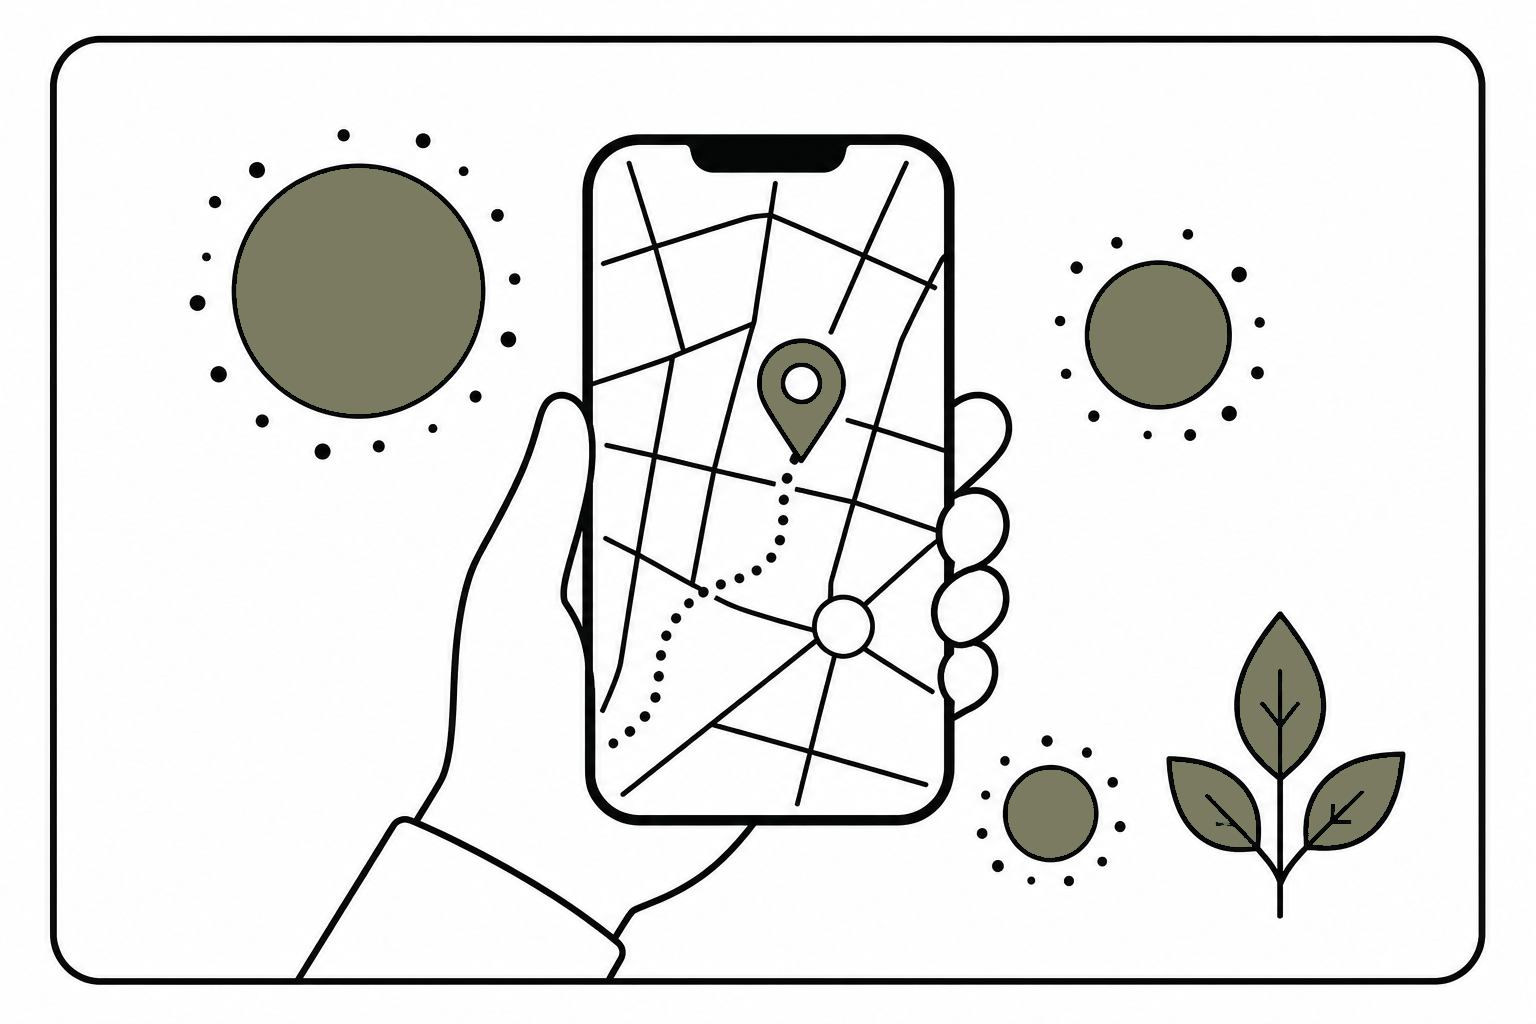
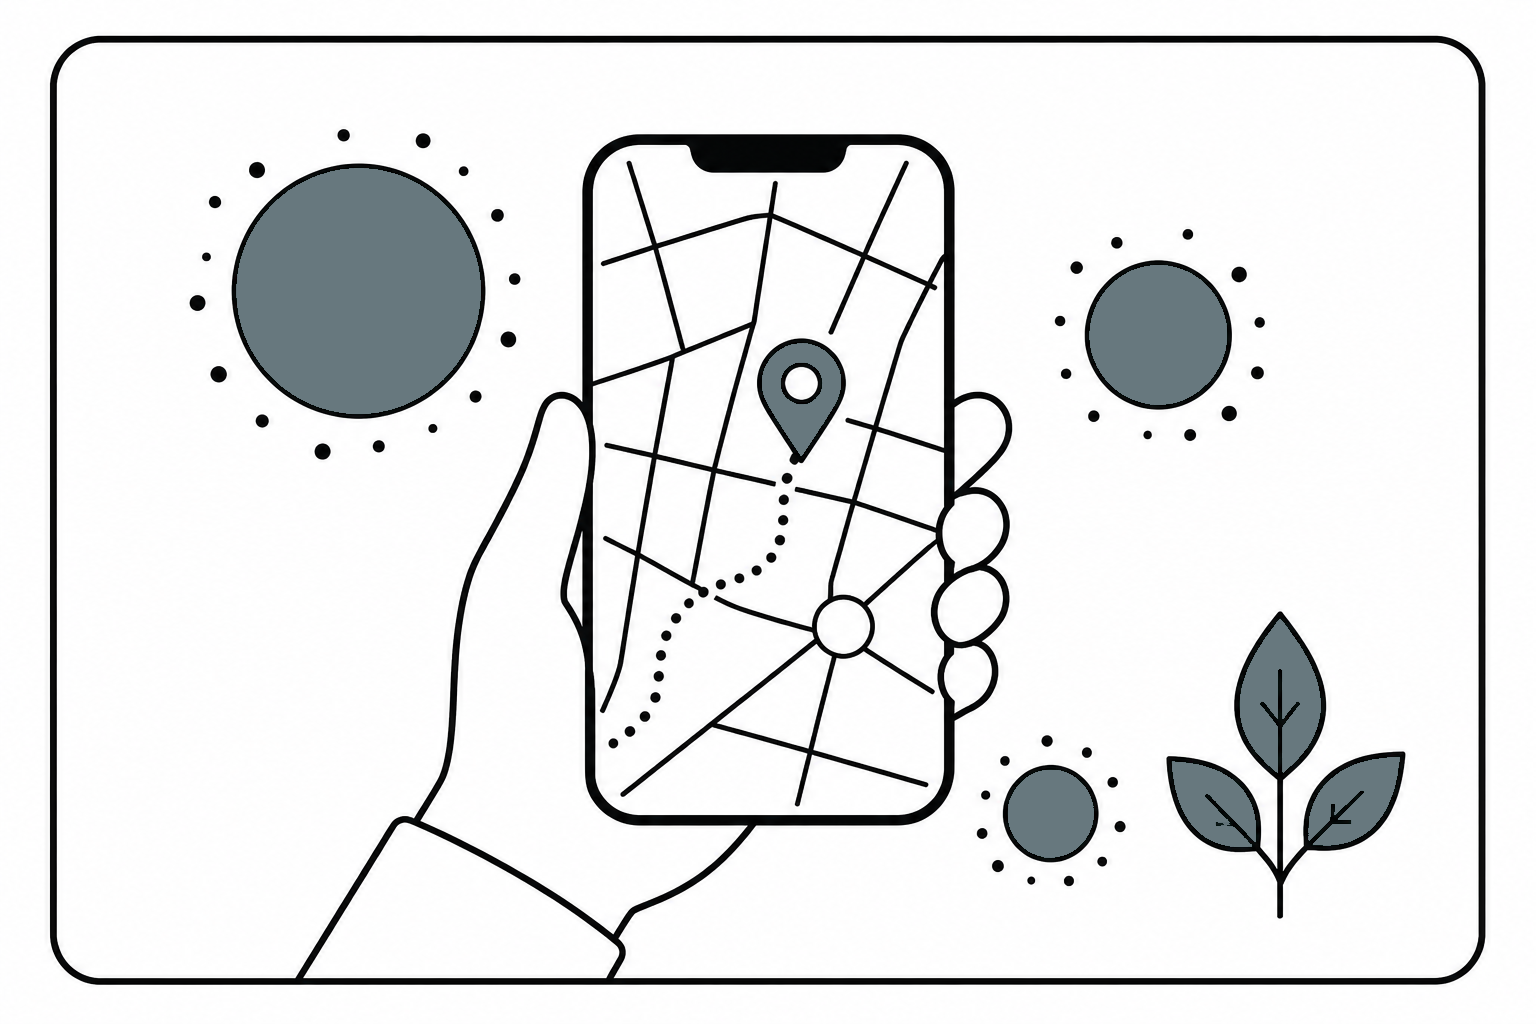
feat(mobile): switch Earth Wellness primary to Slate (2B)
CTA/FAB/tabs use deepened Slate #5F7076; Sage/Moss stay soft surfaces.
Update tokens, contrast tests, brand canon, and onboarding art.

diff --git a/apps/mobile/src/constants/claro-gradient.test.ts b/apps/mobile/src/constants/claro-gradient.test.ts
@@ -19,30 +19,29 @@ const LEGACY_MEDICAL_BLUE = [
 
 const LEGACY_NORDIC_SKY = ['#4F8FB8', '#D9EAF5', '#A8C9DC', '#3A6F92', '#7EB7D6'] as const;
 
-describe('Earth Wellness tokens (UX/UI v2 · A + photo-3)', () => {
+describe('Earth Wellness tokens (UX/UI v2 · A + photo-3 · 2B Slate)', () => {
   it('product accent family has no calm.* keys', () => {
     const lightKeys = Object.keys(LIGHT_CLARO_TOKENS);
     const darkKeys = Object.keys(DARK_CLARO_TOKENS);
     expect(lightKeys.some((k) => k.startsWith('calm'))).toBe(false);
     expect(darkKeys.some((k) => k.startsWith('calm'))).toBe(false);
-    expect(LIGHT_CLARO_TOKENS.accent).toBe('#6E6E58');
+    expect(LIGHT_CLARO_TOKENS.accent).toBe('#5F7076');
     expect(LIGHT_CLARO_TOKENS.accentLight).toBe('#E4E5D4');
     expect(LIGHT_CLARO_TOKENS.accentMid).toBe('#A3A380');
   });
 
-  it('maps Moss primary, Sage soft wash, Slate info', () => {
+  it('maps Slate primary, Sage soft wash, Moss tip text', () => {
     expect(LIGHT_CLARO_TOKENS.tipBg).toBe(LIGHT_CLARO_TOKENS.accentLight);
     expect(LIGHT_CLARO_TOKENS.tipBorder).toBe(LIGHT_CLARO_TOKENS.accentMid);
     expect(LIGHT_CLARO_TOKENS.tipText).toBe('#5F5F4A');
-    expect(LIGHT_CLARO_TOKENS.info).toBe('#829399');
+    expect(LIGHT_CLARO_TOKENS.info).toBe(LIGHT_CLARO_TOKENS.accent);
     expect(LIGHT_CLARO_TOKENS.infoLight).toBe('#E0E5E7');
-    expect(LIGHT_CLARO_TOKENS.info).not.toBe(LIGHT_CLARO_TOKENS.accent);
   });
 
-  it('dark tip stays in Moss/Sage family; info stays Slate', () => {
+  it('dark info aliases Slate accent; tip soft stays Moss/Sage surface', () => {
+    expect(DARK_CLARO_TOKENS.info).toBe(DARK_CLARO_TOKENS.accent);
     expect(DARK_CLARO_TOKENS.tipBg).toBe(DARK_CLARO_TOKENS.accentLight);
-    expect(DARK_CLARO_TOKENS.info).toBe('#9AADB8');
-    expect(DARK_CLARO_TOKENS.info).not.toBe(DARK_CLARO_TOKENS.accent);
+    expect(DARK_CLARO_TOKENS.accentMid).toBe('#7F7F67');
   });
 
   it('rejects legacy Dual Calm medical blue hexes', () => {
@@ -59,12 +58,12 @@ describe('Earth Wellness tokens (UX/UI v2 · A + photo-3)', () => {
     }
   });
 
-  it('returns earth-refuge gradient stops for light and dark', () => {
+  it('returns slate-primary gradient stops for light and dark', () => {
     const light = getClaroGradient(false);
-    expect(light.colors).toEqual(['#5F5F4A', '#6E6E58', '#E4E5D4']);
+    expect(light.colors).toEqual(['#3F4F55', '#5F7076', '#E0E5E7']);
 
     const dark = getClaroGradient(true);
-    expect(dark.colors).toEqual(['#14140F', '#2A2A22', '#A3A380']);
+    expect(dark.colors).toEqual(['#14140F', '#2C333A', '#9AADB8']);
 
     const banned = new Set(
       [...LEGACY_MEDICAL_BLUE, ...LEGACY_NORDIC_SKY].map((h) => h.toUpperCase()),

diff --git a/apps/mobile/src/constants/theme.ts b/apps/mobile/src/constants/theme.ts
@@ -8,15 +8,15 @@ export { getClaroGradient };
 export type ThemeMode = 'light' | 'dark' | 'system';
 
 /**
- * Forest Refuge · Earth Wellness — UX/UI v2 Variant A layout + photo-3 palette.
- * Primary CTA = deepened Moss; soft wash = Sage; info = Slate; secondary soft = Dusty Rose.
+ * Forest Refuge · Earth Wellness — UX/UI v2 Variant A layout + photo-3 palette (2B).
+ * Primary CTA = deepened Slate; soft wash = Sage; secondary = Moss + Dusty Rose.
  * Keep hex values in sync with LIGHT_CLARO_TOKENS / DARK_CLARO_TOKENS in claro-gradient.ts.
  * Policy: docs/brand-claro-green.md
  */
 export type ThemeColors = {
   bg: string;
   card: string;
-  /** Primary interactive — actions, links, active tabs (Moss) */
+  /** Primary interactive — actions, links, active tabs (Slate) */
   accent: string;
   accentLight: string;
   accentMid: string;
@@ -78,7 +78,7 @@ export type ThemeColors = {
 export const lightColors: ThemeColors = {
   bg: '#F7ECE1',
   card: '#FFFCF8',
-  accent: '#6E6E58',
+  accent: '#5F7076',
   accentLight: '#E4E5D4',
   accentMid: '#A3A380',
   head: '#1C1B18',
@@ -116,12 +116,12 @@ export const lightColors: ThemeColors = {
   scannerDangerIconBg: '#FEF2F2',
   scannerSafeText: '#15803D',
   overlay: '#1C2624',
-  teal: '#6E6E58',
+  teal: '#5F7076',
   tealLight: '#E4E5D4',
   surfaceMuted: '#F3E9E2',
-  info: '#829399',
+  info: '#5F7076',
   infoLight: '#E0E5E7',
-  focusRing: 'rgba(110,110,88,0.35)',
+  focusRing: 'rgba(95,112,118,0.35)',
   skeletonBase: '#E8DFD6',
   skeletonSheen: '#F7ECE1',
   mapLand: '#E8DFD6',
@@ -131,7 +131,7 @@ export const lightColors: ThemeColors = {
 export const darkColors: ThemeColors = {
   bg: '#14140F',
   card: '#1E1D1A',
-  accent: '#A3A380',
+  accent: '#9AADB8',
   accentLight: '#2A2A22',
   accentMid: '#7F7F67',
   head: '#F3EDE4',
@@ -169,12 +169,12 @@ export const darkColors: ThemeColors = {
   scannerDangerIconBg: '#450A0A',
   scannerSafeText: '#4ADE80',
   overlay: '#000000',
-  teal: '#A3A380',
+  teal: '#9AADB8',
   tealLight: '#2A2A22',
   surfaceMuted: '#24221E',
   info: '#9AADB8',
   infoLight: '#2C333A',
-  focusRing: 'rgba(163,163,128,0.45)',
+  focusRing: 'rgba(154,173,184,0.45)',
   skeletonBase: '#24221E',
   skeletonSheen: '#2E2C28',
   mapLand: '#24221E',

diff --git a/apps/mobile/src/constants/claro-gradient.ts b/apps/mobile/src/constants/claro-gradient.ts
@@ -11,14 +11,14 @@ export type ClaroGradient = {
 export function getClaroGradient(isDark: boolean): ClaroGradient {
   if (isDark) {
     return {
-      colors: ['#14140F', '#2A2A22', '#A3A380'],
+      colors: ['#14140F', '#2C333A', '#9AADB8'],
       locations: [0, 0.55, 1],
       start: { x: 0, y: 0 },
       end: { x: 1, y: 1 },
     };
   }
   return {
-    colors: ['#5F5F4A', '#6E6E58', '#E4E5D4'],
+    colors: ['#3F4F55', '#5F7076', '#E0E5E7'],
     locations: [0, 0.6, 1],
     start: { x: 0, y: 0 },
     end: { x: 1, y: 1 },
@@ -26,29 +26,29 @@ export function getClaroGradient(isDark: boolean): ClaroGradient {
 }
 
 /**
- * Light-mode Earth Wellness tokens (mirror theme.ts).
- * Moss deepened to `#6E6E58` for white-on-accent AA; photo swatch `#7F7F67` is the brand hue.
- * Sage soft = wash; slate = info; dusty rose lives on surfaceMuted/foam in theme.ts.
+ * Light-mode Earth Wellness tokens (mirror theme.ts) — choice 2B.
+ * Primary CTA = deepened Photo-3 Slate (`#5F7076`; brand swatch `#829399`).
+ * Sage/Moss = soft surfaces; dusty rose lives on surfaceMuted/foam in theme.ts.
  */
 export const LIGHT_CLARO_TOKENS = {
   tipText: '#5F5F4A',
-  info: '#829399',
+  info: '#5F7076',
   infoLight: '#E0E5E7',
   tipBg: '#E4E5D4',
   tipBorder: '#A3A380',
-  accent: '#6E6E58',
+  accent: '#5F7076',
   accentLight: '#E4E5D4',
   accentMid: '#A3A380',
 } as const;
 
-/** Dark-mode Earth Wellness tokens (mirror theme.ts) */
+/** Dark-mode Earth Wellness tokens (mirror theme.ts) — Slate primary */
 export const DARK_CLARO_TOKENS = {
   tipText: '#C5C5A8',
   info: '#9AADB8',
   infoLight: '#2C333A',
   tipBg: '#2A2A22',
   tipBorder: '#A3A380',
-  accent: '#A3A380',
+  accent: '#9AADB8',
   accentLight: '#2A2A22',
   accentMid: '#7F7F67',
 } as const;

diff --git a/apps/mobile/src/constants/theme-contrast.test.ts b/apps/mobile/src/constants/theme-contrast.test.ts
@@ -7,11 +7,11 @@ vi.mock('react-native', () => ({
 }));
 
 /**
- * Brand primary now uses AA-safe Moss (`#6E6E58`). Historical ux-audit §13
- * applied to lighter Claro/Nordic accents; keep the note for doc cross-links.
+ * Brand primary uses AA-safe Slate (`#5F7076`; photo-3 swatch `#829399`).
+ * Historical ux-audit §13 applied to lighter Claro/Nordic accents.
  */
 const BRAND_BUTTON_NOTE = {
-  reason: 'ux-audit-2026-08 §13 — superseded by Moss AA primary in Earth Wellness',
+  reason: 'ux-audit-2026-08 §13 — superseded by Slate AA primary in Earth Wellness 2B',
 };
 
 const AA = 4.5;
@@ -40,10 +40,9 @@ describe('theme contrast', () => {
     }
   });
 
-  it('keeps white-on-Moss primary and dark onAccent/accent at AA', () => {
+  it('keeps white-on-Slate primary and dark onAccent/accent at AA', () => {
     expectReadable(lightColors.onAccent, lightColors.accent, 'light onAccent/accent');
     expectReadable(darkColors.onAccent, darkColors.accent, 'dark onAccent/accent');
-    // Retained so callers that still reference the audit note do not break.
     expect(BRAND_BUTTON_NOTE.reason).toContain('§13');
   });
 });

diff --git a/apps/mobile/src/components/onboarding/OnboardingSlideImage.tsx b/apps/mobile/src/components/onboarding/OnboardingSlideImage.tsx
@@ -16,7 +16,7 @@ type OnboardingSlideImageProps = {
   height?: number;
 };
 
-/** Raster onboarding art — Earth Wellness Moss/Sage accents per slide. */
+/** Raster onboarding art — Earth Wellness Slate primary + Sage soft accents per slide. */
 export function OnboardingSlideImage({ slide, width = 280, height = 220 }: OnboardingSlideImageProps) {
   return (
     <View style={[styles.frame, { width, height }]}>

diff --git a/apps/mobile/src/constants/layout.ts b/apps/mobile/src/constants/layout.ts
@@ -54,6 +54,6 @@ export const brandReportColors = {
   muted: '#5A5850',
   bg: '#F7ECE1',
   border: '#E2D8CE',
-  accent: '#6E6E58',
+  accent: '#5F7076',
   danger: '#B91C1C',
 } as const;

diff --git a/docs/brand-claro-green.md b/docs/brand-claro-green.md
@@ -1,23 +1,23 @@
 # Forest Refuge · Earth Wellness — политика цвета (UX/UI v2)
 
 **Статус:** канон production · supersedes Nordic Air B as product accent  
-**Выбор:** UX/UI v2 **вариант A (Forest & Linen layout)** + палитра **photo-3 Earth Wellness** — [`wellness-ux-v2-concepts.md`](./wellness-ux-v2-concepts.md)  
+**Выбор:** UX/UI v2 **вариант A (Forest & Linen layout)** + палитра **photo-3 Earth Wellness · 2B Slate primary** — [`wellness-ux-v2-concepts.md`](./wellness-ux-v2-concepts.md)  
 **Связано:** [`brand-rollout.md`](./brand-rollout.md) · [`apps/mobile/src/constants/theme.ts`](../apps/mobile/src/constants/theme.ts) · [`claro-gradient.ts`](../apps/mobile/src/constants/claro-gradient.ts)
 
-> Nordic Air (`#4F8FB8`) и Claro teal (`#2A9D8F`) остаются в git history / HTML comparison. Production — Moss primary на тёплом peach-linen фоне. Dual Calm medical blues по-прежнему запрещены.
+> Nordic Air (`#4F8FB8`) и Claro teal (`#2A9D8F`) остаются в git history / HTML comparison. Production — **Slate primary** на тёплом peach-linen фоне; Sage/Moss — soft surfaces. Dual Calm medical blues по-прежнему запрещены.
 
 ---
 
 ## Решение
 
-Вариант **A** задаёт характер экрана (тёплое прибежище, крупные поверхности, выразительная иерархия). Палитра с фото 3:
+Вариант **A** задаёт характер экрана (тёплое прибежище, крупные поверхности, выразительная иерархия). Палитра с фото 3, mapping **2B**:
 
 | Swatch | Hex | Роль в UI |
 |--------|-----|-----------|
-| Main Sage | `#A3A380` | Soft wash / `accentMid` |
+| Accent Slate | `#829399` → CTA `#5F7076` | Primary action (deepened for white-on-accent AA) |
+| Main Sage | `#A3A380` / wash `#E4E5D4` | Soft surfaces / `accentMid` / `accentLight` |
+| Minor Moss | `#7F7F67` / tip `#5F5F4A` | Secondary surface / tip text |
 | Main Dusty Rose | `#D8C3B6` → soft `#F3E9E2` | Secondary soft / `surfaceMuted` / `foam` |
-| Minor Moss | `#7F7F67` → CTA `#6E6E58` | Primary action (deepened for white-on-accent AA) |
-| Accent Slate | `#829399` | `info` / tip-adjacent cool accent |
 | Neutral Stone | `#D6D2CD` | Tracks / `mint` |
 | Canvas | `#F7ECE1` | `bg` / `cream` |
 
@@ -47,35 +47,35 @@
 
 ---
 
-## Канонические токены (Earth Wellness)
+## Канонические токены (Earth Wellness 2B)
 
 | Token | Light | Dark | Роль |
 |-------|-------|------|------|
 | `bg` / `cream` | `#F7ECE1` | `#14140F` | Экран |
 | `card` | `#FFFCF8` | `#1E1D1A` | Surface |
-| `accent` | `#6E6E58` | `#A3A380` | CTA, табы, FAB, ссылки |
+| `accent` | `#5F7076` | `#9AADB8` | CTA, табы, FAB, ссылки (Slate) |
 | `accentLight` | `#E4E5D4` | `#2A2A22` | Soft Sage wash |
-| `accentMid` | `#A3A380` | `#7F7F67` | Soft borders |
-| `info` / `infoLight` | `#829399` / `#E0E5E7` | `#9AADB8` / `#2C333A` | Slate info (≠ accent) |
-| `tipBg` / `tipBorder` / `tipText` | Sage family | Sage family | Tip cards |
+| `accentMid` | `#A3A380` | `#7F7F67` | Soft Sage/Moss borders |
+| `info` / `infoLight` | = accent / `#E0E5E7` | = accent / `#2C333A` | Slate info |
+| `tipBg` / `tipBorder` / `tipText` | Sage family | Sage/Moss family | Tip cards |
 | `surfaceMuted` / `foam` | `#F3E9E2` | `#24221E` | Dusty-rose soft |
 | `ink` / `text` | `#1C2624` | `#F3EDE4` | Основной текст |
 
 Градиент `getClaroGradient(isDark)`:
 
-- Light: `#5F5F4A` → `#6E6E58` → `#E4E5D4`
-- Dark: `#14140F` → `#2A2A22` → `#A3A380`
+- Light: `#3F4F55` → `#5F7076` → `#E0E5E7`
+- Dark: `#14140F` → `#2C333A` → `#9AADB8`
 
 ---
 
 ## Правила (non-negotiable)
 
-1. Нет второго «медицинского» hue рядом с Moss; нет возврата Dual Calm / Nordic Air sky.
-2. Soft wellness — `accentLight` / `accentMid` / `GlassCard variant="soft"`; dusty rose — `surfaceMuted`.
+1. Нет второго «медицинского» hue рядом со Slate; нет возврата Dual Calm / Nordic Air sky.
+2. Soft wellness — Sage `accentLight` / `accentMid` / `GlassCard variant="soft"`; dusty rose — `surfaceMuted`.
 3. SOS — только `danger`.
-4. Ask entry — **global FAB** на оболочке (не chip «Спросить» на Today); скрыт на SOS / auth / onboarding / `/ask`.
+4. Ask entry — **global FAB** на оболочке; скрыт на SOS / auth / onboarding / `/ask`.
 5. Profile chrome вне `/profile` — chip иконка + имя.
-6. Онбординг волны — `accent` + `accentLight` + `surfaceMuted` (Dusty Rose soft).
+6. Онбординг волны — `accent` (Slate) + `accentLight` (Sage) + `surfaceMuted` (Dusty Rose).
 
 ---
 
@@ -84,11 +84,11 @@
 | Элемент | Токен |
 |---------|--------|
 | Screen background | `bg` |
-| Soft card / wellness | `GlassCard variant="soft"` → accentLight/Mid |
+| Soft card / wellness | `GlassCard variant="soft"` → Sage accentLight/Mid |
 | Tab pill (floating) | `card` + `border`; active slot `accentLight` |
 | Onboarding waves | accentLight + accent + surfaceMuted |
 | H1, KPI | `head` / display type |
-| Primary CTA / FAB | `accent` + `onAccent` |
+| Primary CTA / FAB | `accent` (Slate) + `onAccent` |
 | Info / cool hint | `info` / `infoLight` |
 
 ---
@@ -98,7 +98,7 @@
 | # | Содержание | Статус |
 |---|------------|--------|
 | **v2-B** | Nordic Air (superseded) | ↩ |
-| **v2-A-earth** | Variant A + photo-3 Moss/Sage/Slate/Rose | ✅ |
-| FAB Ask + Ask layout fix + onboarding retheme | этот PR | ✅ |
+| **v2-A-earth 2A** | Moss primary | ↩ |
+| **v2-A-earth 2B** | Slate primary + Sage/Moss surfaces | ✅ |
 
 Спека: [`wellness-ux-v2-concepts.md`](./wellness-ux-v2-concepts.md) · HTML [`wellness-ux-v2-concepts.html`](./wellness-ux-v2-concepts.html).

diff --git a/docs/wellness-ux-v2-concepts.md b/docs/wellness-ux-v2-concepts.md
@@ -163,11 +163,11 @@ Chip профиля → switcher / хаб: профиль / настройки /
 
 | ID | Название | Фон / surface / action / soft / ink | Характер |
 |----|----------|-------------------------------------|----------|
-| **A** | Forest & Linen / Earth Wellness (**production**) | `#F7ECE1` / `#FFFCF8` / `#6E6E58` (Moss) / Sage `#E4E5D4`·`#A3A380` / Dusty Rose soft `#F3E9E2` / Slate info `#829399` / ink `#1C2624` | Тёплое прибежище + earthy photo-3; youthful radii / FAB Ask |
+| **A** | Forest & Linen / Earth Wellness (**production · 2B**) | `#F7ECE1` / `#FFFCF8` / `#5F7076` (Slate CTA) / Sage `#E4E5D4`·`#A3A380` / Moss secondary / Dusty Rose soft `#F3E9E2` / ink `#1C2624` | Тёплое прибежище + photo-3 Slate primary; youthful radii / FAB Ask |
 | **B** | Nordic Air (тёплый небо) — **архив** | `#F5F3EE` / `#FFFCF8` / `#4F8FB8` / `#D9EAF5` / `#1C2624` | Снят с production; остаётся в HTML для сравнения |
 | **C** | Dusty Beige Sky | `#F3EEE6` / `#F7F5F2` / `#6E8399` / `#E5E2DC` (+ `#E2E7ED`) / `#2A2926` | Concept only |
 
-**A wash:** Sage `#E4E5D4` → Dusty Rose soft `#F3E9E2` → canvas `#F7ECE1`. Dark A: `#14140F` / `#1E1D1A` / action `#A3A380` / soft `#2A2A22`.
+**A wash:** Sage `#E4E5D4` → Dusty Rose soft `#F3E9E2` → canvas `#F7ECE1`. Dark A: `#14140F` / `#1E1D1A` / action `#9AADB8` (Slate) / soft `#2A2A22`.
 
 **B wash (архив):** `#D9EAF5` → `#E8F1F6` → тёплый `#F3EDE4`.
 
@@ -177,7 +177,7 @@ Plum & Sage снят: не подходит как production-направлен
 
 Во всех вариантах `danger` / `caution` / `success` — отдельная семантика с иконкой и текстом. Финальные пары — contrast-test.
 
-**Правило внедрения:** production-схема **A — Forest Refuge · Earth Wellness** (layout A + палитра photo-3: Moss primary, Sage wash, Slate info, Dusty Rose soft). B и C остаются в HTML для сравнения.
+**Правило внедрения:** production-схема **A — Forest Refuge · Earth Wellness 2B** (layout A + photo-3: **Slate primary**, Sage/Moss soft surfaces, Dusty Rose secondary soft). B и C остаются в HTML для сравнения.
 
 ### 4.1. Что покрывает HTML-прототип
 
@@ -195,7 +195,7 @@ Plum & Sage снят: не подходит как production-направлен
 
 Чеклист:
 
-1. [x] Канон в north-star / FR / brand doc → **A Earth Wellness** (Moss/Sage/Slate/Rose).
+1. [x] Канон в north-star / FR / brand doc → **A Earth Wellness 2B** (Slate primary / Sage·Moss surfaces).
 2. [x] `criticality` + resolver в `packages/core` `home-insights.ts`.
 3. [x] Semantic tokens → `theme.ts` / `layout.ts` / `claro-gradient.ts`; primitives `SelectChip`, `ActionChip`, `SegmentedControl`, `BottomSheet`, `AskChatPanel` / `AskChatSheet`.
 4. [x] `ProfileHeaderButton` chip + имя (кроме `/profile` и setup).
@@ -209,4 +209,4 @@ Plum & Sage снят: не подходит как production-направлен
 
 - [x] Tap-depth, IA, criticality, семантика контролов, profile chip.
 - [x] HTML сравнивает A / B / C.
-- [x] Production-палитра **A — Forest Refuge · Earth Wellness** (photo-3 Moss primary).
+- [x] Production-палитра **A — Forest Refuge · Earth Wellness 2B** (photo-3 Slate primary).
